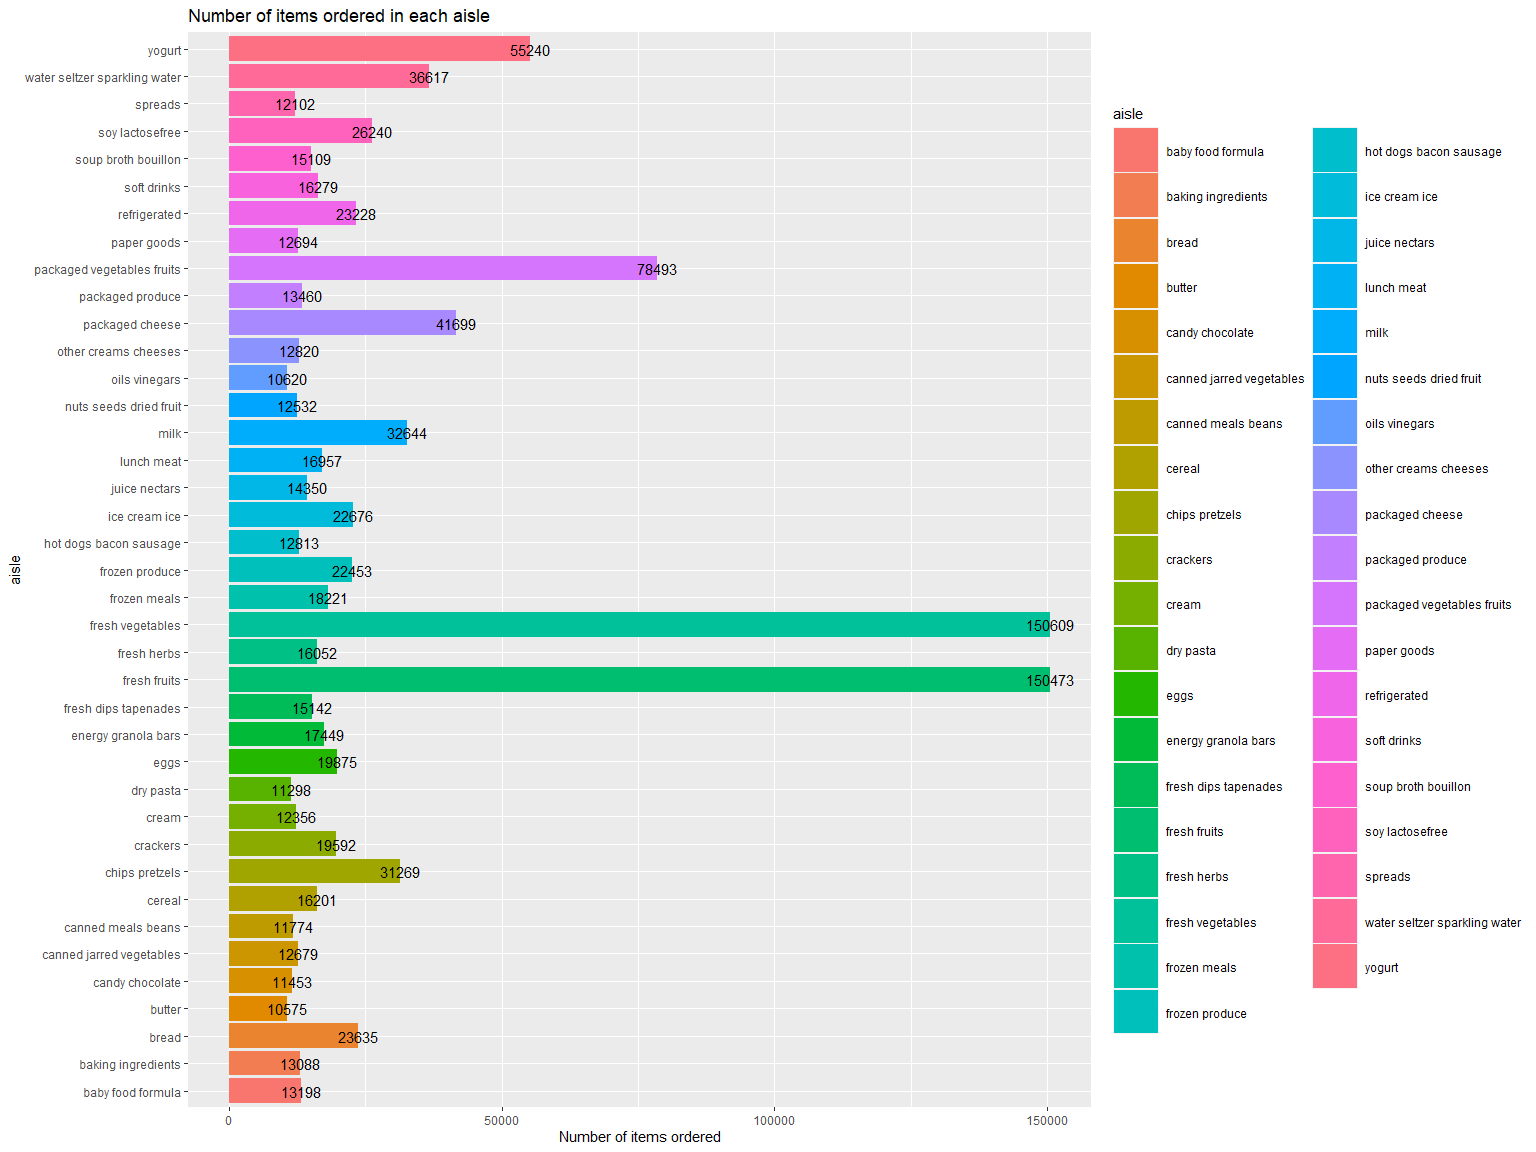
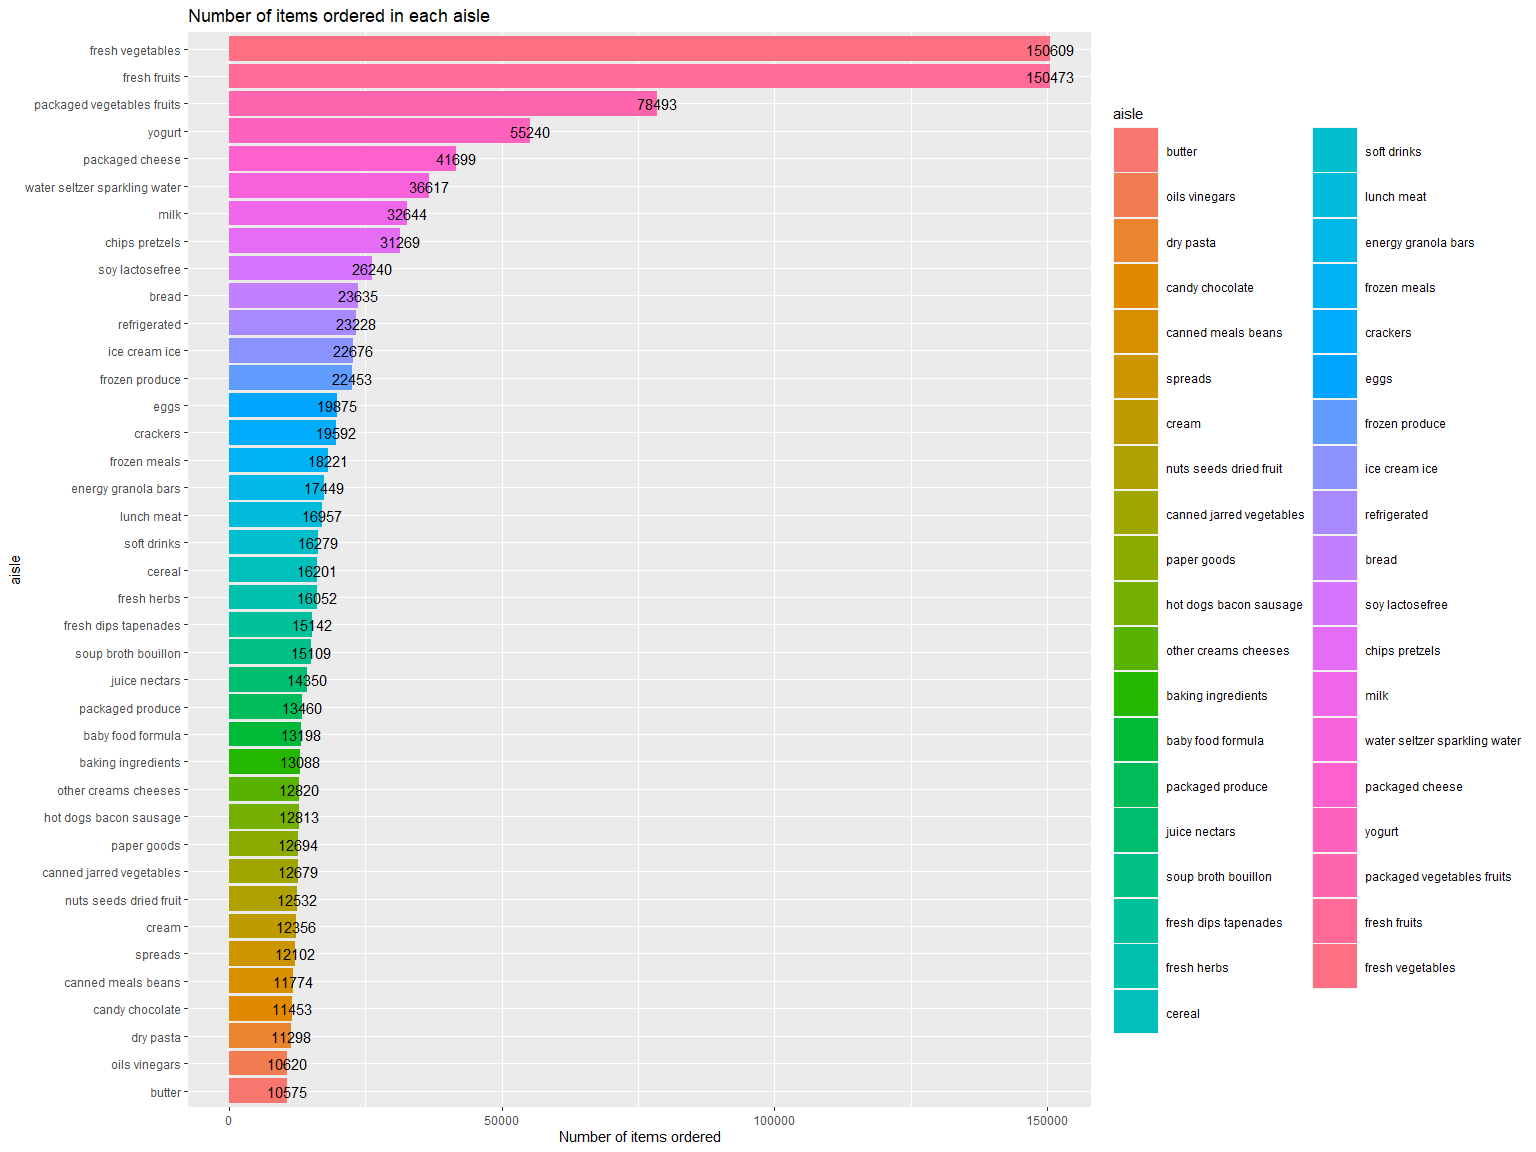
Completed Problem 1. Knit the entire document. Everything looks good.

diff --git a/HW3.md b/HW3.md
@@ -16,52 +16,27 @@ dataset.
 
 ``` r
 instacart %>% 
-  select(aisle_id, aisle) %>% 
-  distinct() 
+  count(aisle) %>% 
+  arrange(desc(n))
 ```
 
     ## # A tibble: 134 × 2
-    ##    aisle_id aisle                        
-    ##       <int> <chr>                        
-    ##  1      120 yogurt                       
-    ##  2      108 other creams cheeses         
-    ##  3       83 fresh vegetables             
-    ##  4       95 canned meat seafood          
-    ##  5       24 fresh fruits                 
-    ##  6       21 packaged cheese              
-    ##  7        2 specialty cheeses            
-    ##  8      115 water seltzer sparkling water
-    ##  9       53 cream                        
-    ## 10      123 packaged vegetables fruits   
+    ##    aisle                              n
+    ##    <chr>                          <int>
+    ##  1 fresh vegetables              150609
+    ##  2 fresh fruits                  150473
+    ##  3 packaged vegetables fruits     78493
+    ##  4 yogurt                         55240
+    ##  5 packaged cheese                41699
+    ##  6 water seltzer sparkling water  36617
+    ##  7 milk                           32644
+    ##  8 chips pretzels                 31269
+    ##  9 soy lactosefree                26240
+    ## 10 bread                          23635
     ## # … with 124 more rows
 
-``` r
-# There are 134 distinct aisles.
-instacart %>% 
-  group_by(aisle) %>% 
-  summarize(
-    n_order = n()) %>% 
-  arrange(desc(n_order))
-```
-
-    ## # A tibble: 134 × 2
-    ##    aisle                         n_order
-    ##    <chr>                           <int>
-    ##  1 fresh vegetables               150609
-    ##  2 fresh fruits                   150473
-    ##  3 packaged vegetables fruits      78493
-    ##  4 yogurt                          55240
-    ##  5 packaged cheese                 41699
-    ##  6 water seltzer sparkling water   36617
-    ##  7 milk                            32644
-    ##  8 chips pretzels                  31269
-    ##  9 soy lactosefree                 26240
-    ## 10 bread                           23635
-    ## # … with 124 more rows
-
-``` r
-# Most items are ordered from the "Fresh vegetables" aisle.
-```
+There are 134 distinct aisles, and most items are ordered from the
+“Fresh vegetables” aisle.
 
 2.  Make a plot that shows the number of items ordered in each aisle,
     limiting this to aisles with more than 10000 items ordered. Arrange
@@ -69,14 +44,13 @@ instacart %>%
 
 ``` r
 instacart %>% 
-  group_by(aisle) %>% 
-  summarize(
-    n_order = n()) %>% 
-  filter(n_order > 10000) %>% 
-  ggplot(aes(x = aisle, y = n_order, fill = aisle)) +
+  count(aisle) %>% 
+  filter(n > 10000) %>% 
+  mutate(aisle = fct_reorder(aisle, n)) %>% 
+  ggplot(aes(x = aisle, y = n, fill = aisle)) +
   geom_bar(stat = "identity") +
   coord_flip() +
-  geom_text(aes(label = n_order),
+  geom_text(aes(label = n),
             position = position_stack(vjust = 1)) +
   labs(
     title = "Number of items ordered in each aisle",
@@ -90,6 +64,51 @@ instacart %>%
     aisles “baking ingredients”, “dog food care”, and “packaged
     vegetables fruits”. Include the number of times each item is ordered
     in your table.
+
+``` r
+instacart %>% 
+  filter(aisle %in% c("baking ingredients", "dog food care", "packaged vegetables fruits")) %>%
+  group_by(aisle) %>% 
+  count(product_name) %>% 
+  mutate(rank = min_rank(desc(n))) %>% 
+  filter(rank < 4) %>% 
+  arrange(desc(n)) %>%
+  knitr::kable()
+```
+
+| aisle                      | product_name                                  |    n | rank |
+|:---------------------------|:----------------------------------------------|-----:|-----:|
+| packaged vegetables fruits | Organic Baby Spinach                          | 9784 |    1 |
+| packaged vegetables fruits | Organic Raspberries                           | 5546 |    2 |
+| packaged vegetables fruits | Organic Blueberries                           | 4966 |    3 |
+| baking ingredients         | Light Brown Sugar                             |  499 |    1 |
+| baking ingredients         | Pure Baking Soda                              |  387 |    2 |
+| baking ingredients         | Cane Sugar                                    |  336 |    3 |
+| dog food care              | Snack Sticks Chicken & Rice Recipe Dog Treats |   30 |    1 |
+| dog food care              | Organix Chicken & Brown Rice Recipe           |   28 |    2 |
+| dog food care              | Small Dog Biscuits                            |   26 |    3 |
+
+4.  Make a table showing the mean hour of the day at which Pink Lady
+    Apples and Coffee Ice Cream are ordered on each day of the week.
+    Format this table for human readers (i.e. produce a 2 x 7 table)
+
+``` r
+instacart %>% 
+  filter(product_name %in% c("Pink Lady Apples", "Coffee Ice Cream")) %>% 
+  group_by(product_name, order_dow) %>% 
+  summarize(mean_hour = mean(order_hour_of_day)) %>% 
+  spread(key = order_dow, value = mean_hour) %>%  
+  # kind of act like pivot_wider
+  knitr::kable(digits = 2)
+```
+
+    ## `summarise()` has grouped output by 'product_name'. You can override using the
+    ## `.groups` argument.
+
+| product_name     |     0 |     1 |     2 |     3 |     4 |     5 |     6 |
+|:-----------------|------:|------:|------:|------:|------:|------:|------:|
+| Coffee Ice Cream | 13.77 | 14.32 | 15.38 | 15.32 | 15.22 | 12.26 | 13.83 |
+| Pink Lady Apples | 13.44 | 11.36 | 11.70 | 14.25 | 11.55 | 12.78 | 11.94 |
 
 # Problem 2
 
